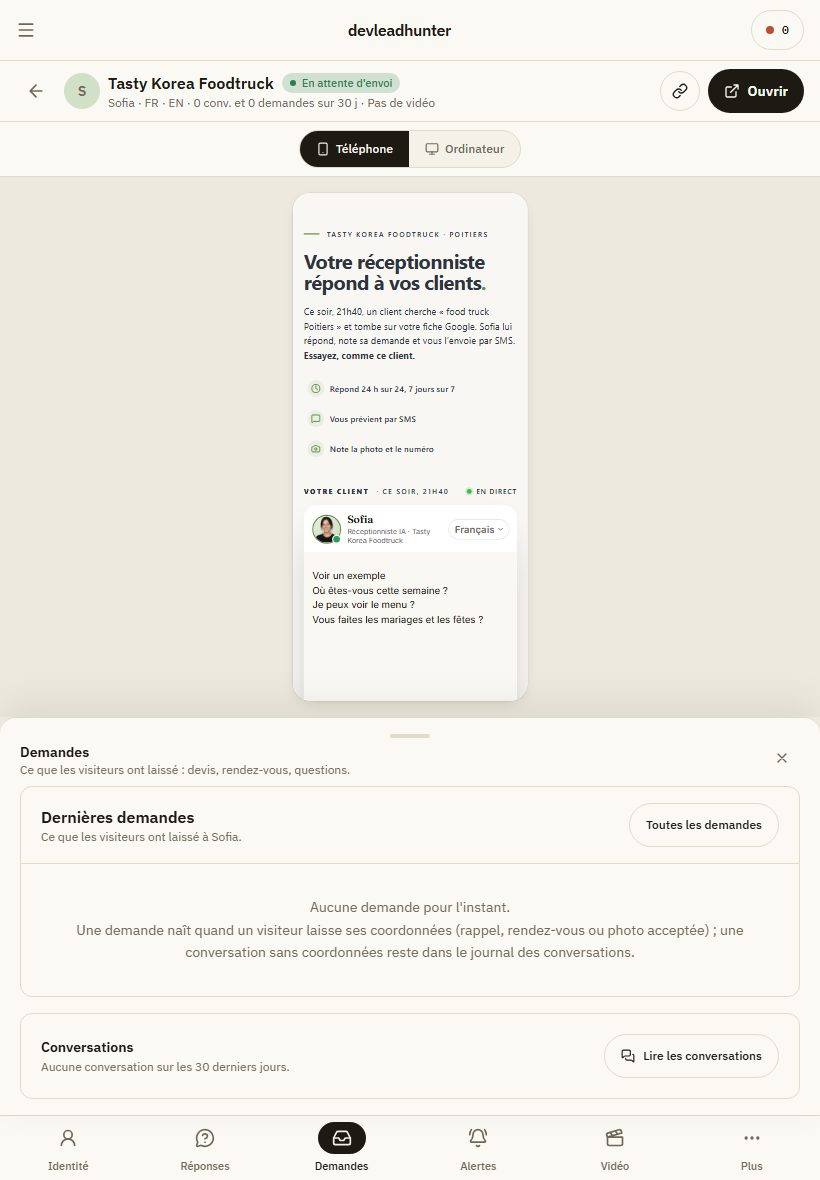
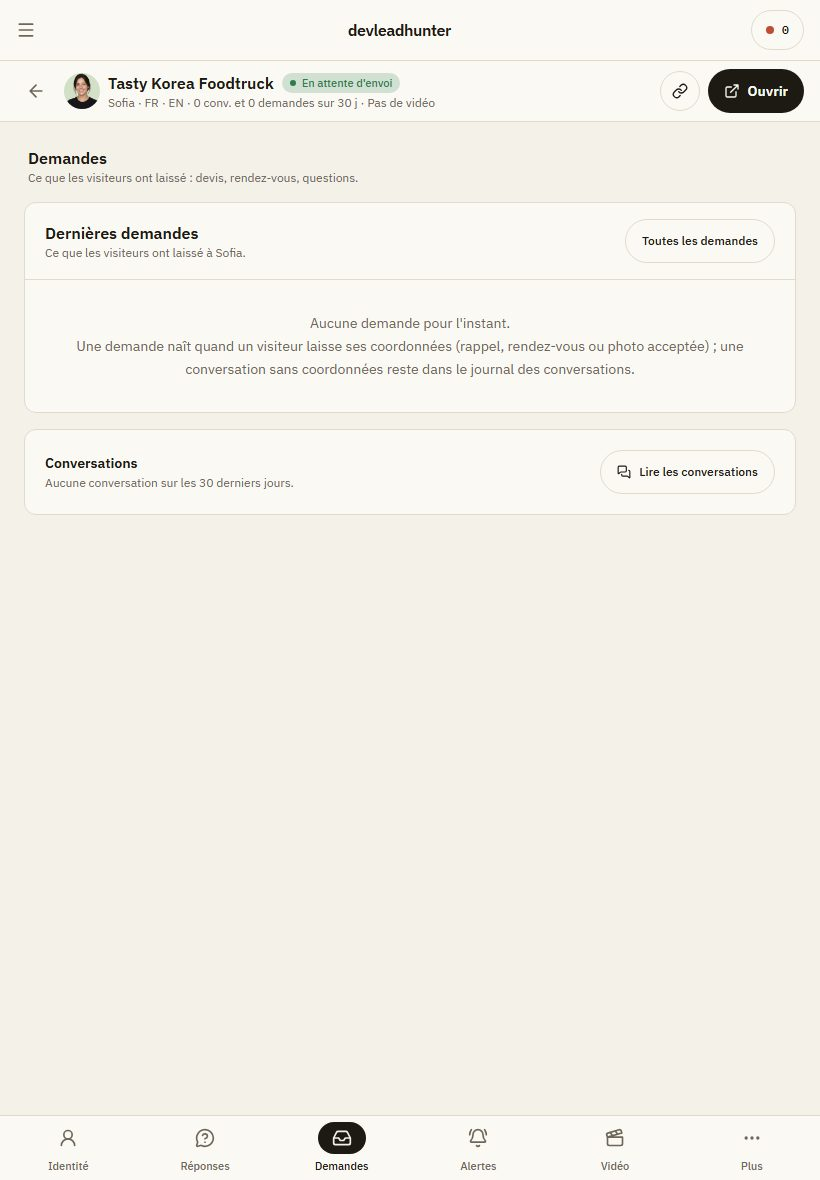
docs: record the receptionist atelier decision and its implementation prompt

diff --git a/docs/mockups/receptionist-page/receptionniste-atelier-captures.html b/docs/mockups/receptionist-page/receptionniste-atelier-captures.html
@@ -1,0 +1,85 @@
+<!doctype html>
+<html lang="fr"><head><meta charset="utf-8"><meta name="viewport" content="width=device-width, initial-scale=1">
+<title>Page d'une réceptionniste : l'atelier (captures)</title>
+<style>
+:root { --bg: #f4f1e9; --ink: #1d1a14; --soft: #6e6759; --line: #e1dbcc; --sheet: #fbf9f3; }
+* { box-sizing: border-box; margin: 0; }
+body { background: var(--bg); color: var(--ink); font: 15px/1.55 system-ui, -apple-system, Segoe UI, sans-serif; padding: 28px 16px 64px; }
+main { max-width: 1180px; margin: 0 auto; }
+h1 { font-size: 24px; }
+.lede { margin-top: 6px; color: var(--soft); max-width: 820px; }
+section { margin-top: 36px; }
+h2 { font-size: 17px; padding-bottom: 8px; border-bottom: 1px solid var(--line); }
+p { margin-top: 10px; max-width: 820px; }
+ul { margin-top: 10px; padding-left: 20px; max-width: 820px; }
+li { margin-top: 4px; }
+.row { display: flex; flex-wrap: wrap; gap: 18px; margin-top: 18px; }
+figure { margin: 0; }
+.row figure { flex: 1 1 360px; max-width: 560px; }
+figure.wide { margin-top: 18px; }
+figure img { display: block; width: 100%; border: 1px solid var(--line); border-radius: 12px; background: var(--sheet); }
+figcaption { margin-top: 8px; color: var(--soft); font-size: 14px; }
+</style></head>
+<body><main>
+<h1>La page d'une réceptionniste : l'atelier</h1>
+<p class="lede">Captures du vrai logiciel, en local, sur les deux vraies réceptionnistes de la prod (Dibodev, vendue, avec ses conversations et ses demandes ; Tasty Korea Foodtruck, démo pas encore envoyée), à la taille d'un iPad en portrait (820 × 1180). Même principe que la page d'un site démo : la page de la réceptionniste en plein écran, une barre d'outils en bas, et la page qui change en direct pendant qu'on règle.</p>
+
+<section><h2>1. Le principe</h2>
+<ul>
+<li><strong>La page de la réceptionniste en plein écran</strong>, dans un vrai téléphone (390 × 844) ou un vrai écran d'ordinateur (1440 × 900) réduit à l'échelle. En haut, une barre fine : retour, portrait, nom, état (« En attente d'envoi », « Expire dans N j », « En service chez le client »), « Léa · FR · EN · 6 conv. et 3 demandes sur 30 j · Bulle vue sur dibodev.fr », copier le lien, ouvrir.</li>
+<li><strong>Six outils en bas</strong> : Identité, Réponses, Demandes, Alertes, Vidéo, Plus. Un compteur sur Réponses (questions sans réponse) et sur Demandes (demandes à traiter).</li>
+<li><strong>Règle de Léo (07/10)</strong> : un outil n'ouvre un volet sous la page que s'il a besoin de la voir. Seule <strong>Identité</strong> a un volet (le prénom, le visage, l'entreprise et la couleur changent en direct dans la page). <strong>Réponses, Demandes, Alertes, Vidéo et Plus sont des pages dédiées</strong>, sans aperçu.</li>
+<li><strong>Publier</strong> : dès qu'une identité ou une alerte est modifiée, « Annuler » et « Publier » apparaissent en haut et un point ambre marque l'outil concerné.</li>
+</ul>
+</section>
+
+<section><h2>2. Sur iPad, en portrait : une réceptionniste vendue (Dibodev)</h2>
+<div class="row">
+<figure><img src="captures-atelier/dibodev-ipad-00-page.jpg" alt=""><figcaption>La page de la réceptionniste dans un téléphone. Rien d'autre à lire.</figcaption></figure>
+<figure><img src="captures-atelier/dibodev-ipad-01-identite.jpg" alt=""><figcaption>Identité : le seul volet. Entreprise affichée, les six visages, prénom, ton, langues, couleur.</figcaption></figure>
+</div>
+<div class="row">
+<figure><img src="captures-atelier/dibodev-ipad-07-identite-en-direct.jpg" alt=""><figcaption>On tape « Camille » et une couleur verte : la page suit en direct, avant d'être publiée. « Annuler » / « Publier » en haut, point ambre sur Identité.</figcaption></figure>
+<figure><img src="captures-atelier/dibodev-ipad-08-page-ordinateur.jpg" alt=""><figcaption>La même page dans un écran d'ordinateur au vrai format, réduit à l'échelle.</figcaption></figure>
+</div>
+<div class="row">
+<figure><img src="captures-atelier/dibodev-ipad-02-reponses.jpg" alt=""><figcaption>Réponses, page dédiée : la question sans réponse à traiter (Répondre / Ignorer), les réponses en place, et les sources qu'elle lit.</figcaption></figure>
+<figure><img src="captures-atelier/dibodev-ipad-03-demandes.jpg" alt=""><figcaption>Demandes, page dédiée : les dernières demandes (type, résumé, date, état), « Toutes les demandes », les conversations.</figcaption></figure>
+</div>
+<div class="row">
+<figure><img src="captures-atelier/dibodev-ipad-04-alertes.jpg" alt=""><figcaption>Alertes, page dédiée : email et mobile du commerçant, SMS immédiat et ses types, ne pas déranger, email de résumé, boîte Gmail, modèle.</figcaption></figure>
+<figure><img src="captures-atelier/dibodev-ipad-05-video.jpg" alt=""><figcaption>Vidéo, page dédiée : la vidéo de prospection et la façon dont elle part.</figcaption></figure>
+</div>
+<div class="row">
+<figure><img src="captures-atelier/dibodev-ipad-06-plus.jpg" alt=""><figcaption>Plus : les chiffres, l'adresse de sa page, le script, le guide d'installation, l'espace du client, l'abonnement…</figcaption></figure>
+<figure><img src="captures-atelier/dibodev-ipad-06b-plus-suite.jpg" alt=""><figcaption>Plus, la suite : informations, après la vente, suppression.</figcaption></figure>
+</div>
+</section>
+
+<section><h2>3. Une démo pas encore envoyée (Tasty Korea Foodtruck)</h2>
+<div class="row">
+<figure><img src="captures-atelier/tasty-ipad-00-page.jpg" alt=""><figcaption>« En attente d'envoi · Pas de vidéo ». La page de démo que recevra le prospect.</figcaption></figure>
+<figure><img src="captures-atelier/tasty-ipad-06-plus.jpg" alt=""><figcaption>Plus : « Lien de la démo » avec la phrase du compte à rebours, les liens d'abonnement à copier, « Marquer comme vendu (hors Stripe) » plus bas.</figcaption></figure>
+</div>
+</section>
+
+<section><h2>4. Thème sombre et ordinateur</h2>
+<div class="row">
+<figure><img src="captures-atelier/dibodev-ipad-sombre-01-identite.jpg" alt=""><figcaption>Thème sombre, volet Identité.</figcaption></figure>
+<figure><img src="captures-atelier/dibodev-ipad-sombre-02-demandes.jpg" alt=""><figcaption>Thème sombre, page Demandes.</figcaption></figure>
+</div>
+<figure class="wide"><img src="captures-atelier/dibodev-ordinateur-01-identite.jpg" alt=""><figcaption>Ordinateur 1440 px, volet Identité ouvert.</figcaption></figure>
+<figure class="wide"><img src="captures-atelier/dibodev-ordinateur-02-alertes.jpg" alt=""><figcaption>Ordinateur 1440 px, page Alertes.</figcaption></figure>
+</section>
+
+<section><h2>5. Aujourd'hui, pour comparer</h2>
+<div class="row">
+<figure><img src="captures-aujourdhui/ipad-1-01-resume-ecran.jpg" alt=""><figcaption>La page actuelle d'une réceptionniste vendue sur iPad : elle déborde à droite, les valeurs du résumé et l'onglet Configuration sont hors écran.</figcaption></figure>
+<figure><img src="captures-aujourdhui/ipad-2-02-resume-page.jpg" alt=""><figcaption>La page actuelle en entier (Tasty Korea) : une longue colonne de cartes.</figcaption></figure>
+</div>
+</section>
+
+<section><h2>6. Décision</h2>
+<p><strong>Direction retenue par Léo le 07/10</strong> (« vas-y continue »), avec une règle : si un outil n'a pas besoin de voir l'aperçu, c'est une page dédiée, pas un volet. Un autre modèle implémentera la maquette dans le code à partir de <code>PROMPT-IMPLEMENTATION.md</code>.</p>
+</section>
+</main></body></html>

diff --git a/docs/mockups/receptionist-page/PROMPT-IMPLEMENTATION.md b/docs/mockups/receptionist-page/PROMPT-IMPLEMENTATION.md
@@ -1,0 +1,50 @@
+# Prompt d'implémentation : la page d'une réceptionniste devient « l'atelier »
+
+> À coller tel quel à un modèle de code. Repo : `C:\Users\leogu\Desktop\Projects\devleadhunter` (monorepo : `web/` = dashboard Nuxt 4, `api/` = FastAPI, `demo-host/` = hébergeur des sites et des pages de réceptionnistes). Tout le nécessaire est dans le dépôt.
+
+---
+
+Tu travailles dans le dépôt DevLeadHunter, dossiers `web/` (Nuxt 4, Vue 3, TypeScript strict, Tailwind v4, Pinia, Nuxt UI) et `demo-host/` (Nuxt 4). Ta mission : **remplacer la page d'une réceptionniste** (`web/app/pages/dashboard/ai-assistants/[id].vue`) par la version « atelier » dont la maquette a été validée par Léo le 07/10/2026, dans la continuité de l'atelier de la page d'un site démo (`web/app/pages/dashboard/demo-sites/[id]/index.vue`, en prod).
+
+## 1. Ce que tu dois produire
+
+La maquette a été **construite dans le vrai logiciel**, sur la branche `mockup/receptionist-page` (commits « feat: draft the atelier layout of the receptionist page » et suivants). Commence par la lire : `git fetch origin && git log --oneline main..origin/mockup/receptionist-page`, puis `git diff main...origin/mockup/receptionist-page`. Les captures validées sont dans `docs/mockups/receptionist-page/receptionniste-atelier-captures.html` (dossier `captures-atelier/`) : ouvre-les, c'est le rendu attendu, au pixel près sur iPad en portrait (820 × 1180). La note `docs/mockups/receptionist-page/NOTE.md` dit ce que l'atelier contient et ce qui reste ouvert : **rien de l'ancienne page ne doit disparaître** (régénérer, espace client, couper les liens, marquer vendu, supprimer, vidéo, abonnement, guide d'installation, conversations, sources, demandes, questions sans réponse, informations).
+
+**Pars de la branche de maquette** (`git checkout -b feat/receptionist-atelier origin/mockup/receptionist-page`, puis `git merge main` pour être à jour) et finis le travail : la branche est une maquette fonctionnelle, pas un code fini.
+
+### 1.1 Comportement attendu (voir les captures)
+
+- **Barre du haut** : flèche retour, portrait de la réceptionniste, nom du commerce, pastille d'état (`assistantLifetimeLabel` : « En attente d'envoi », « Expire dans N j », « En service chez le client »), ligne de faits « Léa · FR · EN · 6 conv. et 3 demandes sur 30 j · Bulle vue sur dibodev.fr » (ou « Vidéo prête / Pas de vidéo » tant qu'elle n'est pas vendue), bouton rond « copier le lien », bouton « Ouvrir » (la page avec `?internal=1`, comme aujourd'hui). Dès qu'il y a une modification non publiée : « Annuler » + « Publier » remplacent ces deux boutons.
+- **Bandeau** sous la barre quand `needs_follow_up` (les relances sont parties, il manque : …) ou `churn_risk`.
+- **Sélecteur Téléphone / Ordinateur**, centré.
+- **L'aperçu** : la page de la réceptionniste (`demo_url`, avec `?internal=1`) dans un **vrai écran** (téléphone 390 × 844 ou ordinateur 1440 × 900) réduit à l'échelle, centré, qui défile à l'intérieur. Composant générique `AtelierDevicePreview` (`web/app/components/atelier/DevicePreview.vue`, props `pageUrl`, `device`, `previewMessage`, `reloadNonce`).
+- **La page change en direct** pendant qu'on tape dans « Identité » : prénom, entreprise affichée et couleur d'accent sont poussés dans l'iframe par `postMessage` `{ type: 'dlh:preview', assistant_name, business_name, accent_color }`. Côté demo-host, `app/pages/ia/[slug]/index.vue` les applique en mode `_edit=1` seulement (composable `useAssistantPreviewOverrides`, valeurs vérifiées : nom ≤ 64 caractères, couleur hex). Garde ce comportement ; vérifie qu'un visiteur normal (sans `_edit=1`) n'est jamais concerné.
+- **Barre d'outils en bas**, six outils : Identité, Réponses, Demandes, Alertes, Vidéo, Plus. Un **compteur noir** sur Réponses (`unanswered_count`) et sur Demandes (`pending_count` de la liste des demandes) ; un **point ambre** sur Identité ou Alertes quand elles portent une modification non publiée.
+- **Règle de Léo (07/10)** : un outil n'ouvre un volet sous l'aperçu **que s'il a besoin de voir la page**. Donc :
+  - **Identité** = volet (poignée, titre, sous-titre, fermer ; au plus 44 % de la hauteur, l'aperçu se réduit au-dessus et n'est jamais caché ; deux hauteurs à la poignée) : entreprise affichée, les six visages + « Votre image », prénom, ton, langues, couleur d'accent. C'est `AssistantSettingsForm` avec `section="identity"`.
+  - **Réponses, Demandes, Alertes, Vidéo, Plus** = **pages dédiées** qui remplacent l'aperçu (titre + sous-titre en haut, cartes pleine largeur, `max-w-4xl` centré, défilement) :
+    - Réponses : `AssistantFaqCard` (questions sans réponse, réponses en place) + carte « Ce qu'elle lit » avec « Ouvrir les sources » (le drawer `assistant-sources` existant).
+    - Demandes : `AssistantRecentRequests` (6 dernières, « Toutes les demandes ») + carte « Conversations » avec « Lire les conversations » (le drawer `assistant-conversations`).
+    - Alertes : `AssistantSettingsForm` avec `section="alerts"` (email et mobile du commerçant, SMS immédiat et ses types, ne pas déranger, email de résumé, boîte Gmail bêta, modèle hébergé en Europe) dans une carte.
+    - Vidéo : `AssistantVideoCard` (sans son cadre ni son titre : props `isFramed`, `isHeadingHidden`) dans une carte + encart « Comment elle part » (`{vignette_video_assistant}`, `{lien_video_assistant}`, mesure de la lecture).
+    - Plus : quatre chiffres (`UiStatCard`, deux colonnes sur iPad), lien de la démo (« Adresse de sa page » une fois vendue, phrase d'expiration sinon), script pour le site du client, guide d'installation (`AssistantInstallGuideCard`), espace du client (envoyer, couper les anciens liens, lien à copier à la main), abonnement (`AssistantSubscriptionCard` sans cadre), informations (la `dl` de l'ancien résumé), après la vente (régénérer, marquer vendu hors Stripe tant qu'elle n'est pas vendue), supprimer (carte à liseré rouge).
+- **Publier** enregistre les deux formulaires (identité, alertes) qui ont une modification, l'un après l'autre (`save()` exposé) ; « Annuler » les remet à l'état enregistré (`reset()`). Le libellé est « Publier » / « Publication… ». Après un enregistrement, l'aperçu se recharge (`previewReloadNonce`).
+- Thème sombre et clair, tous les deux (tokens `--app-*`, voir `web/app/assets/css/main.css`).
+
+### 1.2 Ce qui reste à faire par rapport à la branche de maquette
+
+1. **Partager la mécanique du volet avec la page du site.** La branche extrait `useAtelierToolSheet` (`web/app/composables/useAtelierToolSheet.ts`, types `web/app/types/AtelierToolSheet.ts`) : ouverture, deux hauteurs, glissement de la poignée, Échap, retour du focus. La page du site (`demo-sites/[id]/index.vue`) a encore sa propre copie : **migre-la sur le composable** et supprime les types devenus inutiles de `web/app/types/DemoSiteDetailPage.ts` (`DemoSiteAtelierSheetSize`, `DemoSiteAtelierSheetDrag`, `DemoSiteAtelierTool` si `AtelierTool<T>` suffit). Une seule implémentation.
+2. **Un seul aperçu en vrai écran.** `AtelierDevicePreview` est générique ; `DemoSitesAtelierPreview` fait la même chose avec un message `dlh:preview` spécifique (template, palette, photos, services). Fais-le reposer sur le générique (le site passe son message dans `previewMessage`) et supprime le doublon. Ajoute `{ path: '~/components/atelier', prefix: 'Atelier' }` à la liste `components` de `web/nuxt.config.ts` (la maquette importe le composant explicitement parce que le dossier n'y est pas).
+3. **Deux instances de `AssistantSettingsForm`** (identité dans le volet, alertes sur leur page) vivent en même temps ; chacune garde ses modifications quand on change d'outil (`v-show`, pas `v-if`). Vérifie qu'un enregistrement de l'une ne perd pas les modifications de l'autre (la synchronisation `withRecordChanges` existe déjà) et que le bouton « Enregistrer » interne du formulaire ne s'affiche que pour `section="all"` (il n'est plus utilisé nulle part : si c'est le cas, retire `all` et le bouton).
+4. **Plein écran** : la page utilise `definePageMeta({ shouldFillDashboardViewport: true })` comme le site (pas de padding, pas de défilement du `<main>`, barre d'onglets du bas masquée). Vérifie que c'est bien le cas dans l'app installée sur iPad.
+5. **Téléphone** (390 px) : six boutons dans la barre, « Ouvrir » sans texte, pages dédiées lisibles ; vérifie-le.
+6. **Accessibilité** : `aria-pressed` sur la barre, le volet se ferme à Échap et le focus revient sur l'outil ; `aria-label` sur les boutons sans texte (copier, fermer) ; les compteurs ont leur texte caché (« 1 à traiter »).
+7. **Nettoyage** : `AssistantSummaryCard` et `AssistantActionsCard` ne sont plus utilisés par la page ; s'ils ne servent nulle part ailleurs, supprime-les avec leurs types. `AssistantDemoPreviewCard` pareil.
+
+## 2. Règles du dépôt
+
+Les règles sont celles de `docs/mockups/demo-site-page/PROMPT-IMPLEMENTATION.md`, section 2 : TypeScript strict (pas de `any`, chaque `ref` / `computed` / fonction typés), JSDoc au-dessus de chaque fonction, pas de commentaire en ligne dans le code neuf, tokens `--app-*` (jamais de couleur en dur), nommage explicite (`isPreviewShown`, pas `show`), `npm --prefix web run lint` vert, hook de commit jamais contourné, **pas de PR touchant `api/`** (ici `api/` n'est pas concerné), commits en anglais en minuscules (`feat: …`), push direct sur `main` une fois vérifié.
+
+## 3. Vérification
+
+À l'écran, dans les deux thèmes, sur la vraie API locale ou une base seedée : à 820 × 1180 avec émulation tactile (Playwright `has_touch: true`, ou un vrai iPad) chaque outil s'ouvre et se ferme, « Identité » redessine la page en direct, « Publier » enregistre et recharge l'aperçu, les pages dédiées défilent ; à 1440 px à la souris le même atelier ; à 390 px la page reste utilisable. Donne des captures dans le compte rendu et dis ce qui n'a pas pu être vérifié.

diff --git a/docs/mockups/receptionist-page/NOTE.md b/docs/mockups/receptionist-page/NOTE.md
@@ -12,12 +12,12 @@ Captures du vrai logiciel en local, sur les deux vraies réceptionnistes de la p
 - Le reste est une longue colonne de cartes : Résumé (12 lignes), lien, script, cinq boutons d'actions, vidéo, abonnement, puis quatre chiffres, demandes, questions sans réponse, guide d'installation, aperçu de la démo tout en bas.
 - Sur ordinateur : colonne de contrôles à gauche, contenu à droite (le squelette que Léo a refusé pour le site).
 
-## La maquette (`captures-atelier/`, préfixes `dibodev-` et `tasty-`)
+## La maquette (`receptionniste-atelier-captures.html`, `captures-atelier/`, préfixes `dibodev-` et `tasty-`)
 
-Construite dans le vrai logiciel sur la branche **`mockup/receptionist-page`** (worktree `dlh-mockup-site-page`), mêmes données réelles. Direction prise sans demander : **le même atelier que le site**, puisque Léo a dit « continuer la nouvelle version ». Deux autres directions possibles si celle-ci ne va pas : B « la boîte de réception » (la page s'ouvre sur les demandes et les conversations, l'identité en réglage) ; C « la fiche » (une page qui défile, rien d'autre).
+Construite dans le vrai logiciel sur la branche **`mockup/receptionist-page`** (worktree `dlh-mockup-site-page`), mêmes données réelles. Direction prise sans demander : **le même atelier que le site**, puisque Léo a dit « continuer la nouvelle version ». **Retenue le 07/10** (« vas-y continue ») avec une règle durable : **un outil n'ouvre un volet sous l'aperçu que s'il a besoin de voir la page ; sinon c'est une page dédiée** (comme « Plus »). Donc seule Identité a un volet ; Réponses, Demandes, Alertes, Vidéo et Plus sont des pages. Prompt pour l'autre modèle : `PROMPT-IMPLEMENTATION.md`.
 
 - **La page de démo en plein écran** (`/ia/{slug}?internal=1`) dans un vrai téléphone ou un vrai écran d'ordinateur, réduit à l'échelle. Barre du haut : retour, portrait, nom, état (« En service chez le client », « En attente d'envoi », « Expire dans N j »), ligne « Léa · FR · EN · 6 conv. et 3 demandes sur 30 j · Bulle vue sur dibodev.fr », copier le lien, Ouvrir.
-- **Six outils en bas** : Identité (prénom, visage, ton, langues, couleur), Réponses (questions sans réponse avec compteur, réponses en place, sources), Demandes (dernières demandes avec compteur « à traiter », conversations), Alertes (email, mobile, SMS immédiat, heures calmes, email de résumé, Gmail bêta, modèle), Vidéo, Plus.
+- **Six outils en bas** : Identité (volet : prénom, visage, ton, langues, couleur), puis des pages dédiées : Réponses (questions sans réponse avec compteur, réponses en place, sources), Demandes (dernières demandes avec compteur « à traiter », conversations), Alertes (email, mobile, SMS immédiat, heures calmes, email de résumé, Gmail bêta, modèle), Vidéo (la carte et « Comment elle part »), Plus.
 - **La page change en direct** pendant qu'on tape : prénom, entreprise et couleur d'accent sont poussés dans la page de démo par `dlh:preview` (nouveau composable `useAssistantPreviewOverrides` dans demo-host, actif seulement en `_edit=1`). Capture `dibodev-ipad-07-identite-en-direct.jpg` : « Camille » et le vert apparaissent dans la page avant d'être publiés ; « Annuler » / « Publier » en haut, point ambre sur Identité.
 - **Plus** = vraie page : quatre chiffres, lien de la démo (ou « Adresse de sa page » une fois vendue), script, guide d'installation, espace du client (envoyer, couper les liens), abonnement, informations, après la vente (régénérer, marquer vendu), supprimer.
 
@@ -26,13 +26,12 @@ Construite dans le vrai logiciel sur la branche **`mockup/receptionist-page`** (
 - `web/app/pages/dashboard/ai-assistants/[id].vue` : la page refaite (toute la logique de l'ancienne page conservée : régénérer, espace client, couper les liens, vendu, supprimer, vidéo, drawers).
 - `web/app/composables/useAtelierToolSheet.ts` + `web/app/types/AtelierToolSheet.ts` : la mécanique du volet (ouverture, deux hauteurs, glissement, Échap, focus), **extraite** de la page du site. La page du site ne l'utilise pas encore : à migrer à l'implémentation pour ne pas garder deux copies.
 - `web/app/components/atelier/DevicePreview.vue` + `web/app/types/AtelierDevicePreview.ts` : l'aperçu dans un vrai écran, générique (`pageUrl`, `previewMessage`), à faire adopter par la page du site à la place de `DemoSitesAtelierPreview`. Le dossier `components/atelier` n'est pas dans `nuxt.config.ts` : la page l'importe explicitement, à ajouter à la liste des dossiers.
-- `AssistantSettingsForm.vue` : prop `section` (`identity` / `alerts` / `all`), `hasChanges`, `changedSections`, `save()`, `reset()` exposés, événement `draft` ; une seule instance vit dans le volet, les modifications survivent au changement d'outil.
-- `AssistantVideoCard.vue` (`isHeadingHidden`), `AssistantSubscriptionCard.vue` (`isFramed`).
+- `AssistantSettingsForm.vue` : prop `section` (`identity` / `alerts` / `all`), `hasChanges`, `changedSections`, `save()`, `reset()` exposés, événement `draft` ; deux instances (identité dans le volet, alertes sur sa page), montées en `v-show` pour que les modifications survivent au changement d'outil ; « Publier » enregistre celles qui ont changé.
+- `AssistantVideoCard.vue` (`isHeadingHidden`, `isFramed`), `AssistantSubscriptionCard.vue` (`isFramed`).
 - `demo-host/app/pages/ia/[slug]/index.vue` + `composables/useAssistantPreviewOverrides.ts` : les surcharges en direct.
 
 ## À trancher
 
-- La direction elle-même (atelier, boîte de réception, fiche).
 - Le volet Identité est long (six visages) : garder les visages dans le volet, ou les mettre dans une page comme « Plus ».
 - « Réponses » et « Demandes » : des compteurs noirs sur l'outil ; le point ambre reste réservé aux modifications non publiées.
 - Vérifier sur un vrai iPad (Safari) le glissement du volet.
